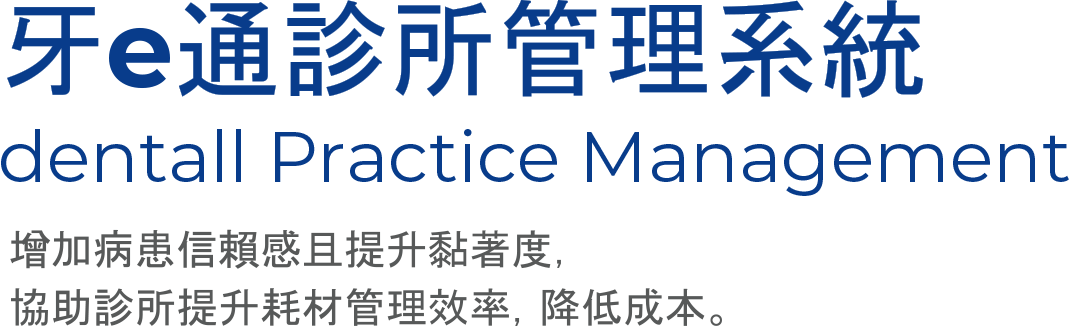
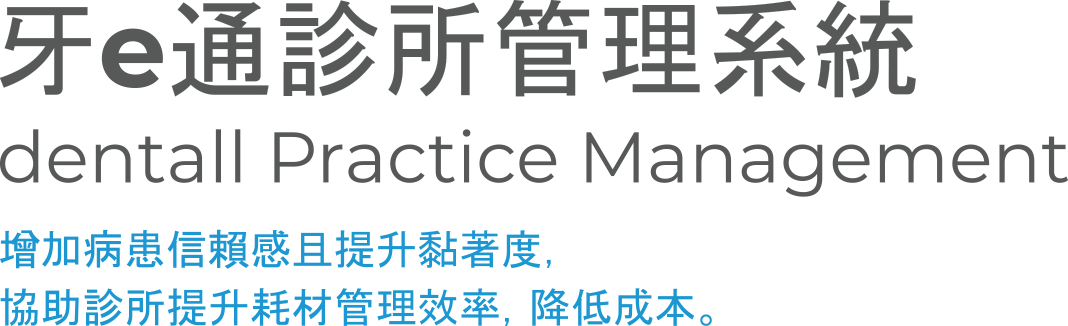
update

diff --git a/resources/stylesheets/style.css b/resources/stylesheets/style.css
@@ -66,7 +66,7 @@ a:active {
 
 .container {
     margin: 0 auto;
-    max-width: 996px;
+    /*max-width: 996px;*/
 }
 
 /*=Navigation=*/
@@ -103,7 +103,7 @@ nav .brand {
 
     background-image: url("../images/dentall-logo.png");
     background-repeat: no-repeat;
-    background-position: center center;
+    background-position: left center;
     background-size: auto;
     height: 100%;
 }
@@ -152,7 +152,7 @@ nav.sticky {
 }
 
 .container-fluid.nav .container {
-    width: 100%;
+    width: 70%;
     height: 84px;
     text-align: center;
 }
@@ -364,7 +364,7 @@ nav.sticky {
     line-height: 1.26;
     letter-spacing: 2.2px;
     text-align: left;
-    color: #083c8b;
+    color: #555555;
 }
 .content-container .content-wrap > div:nth-child(2) .content-1-desc-title > div:nth-child(2) {
     font-size: 18px;
@@ -372,7 +372,7 @@ nav.sticky {
     line-height: 1.33;
     letter-spacing: 0.9px;
     text-align: left;
-    color: #f5a644;
+    color: #00a2e2;
     margin-top: 10px;
 }
 .content-container .content-wrap > div:nth-child(2) .content-1-desc {
@@ -614,10 +614,12 @@ Media Queries
 }
 @media (max-width: 768px) {
     .container-fluid.nav .container {
+        width: 100%;
         height: 56px;
     }
     nav .brand {
         background-image: url("../images/phone/dentall-logo.png");
+        background-position: center center;
     }
 
     /* banner */
@@ -627,7 +629,8 @@ Media Queries
     }
     .banner-title-container {
         width: 90%;
-        margin-top: 30px;
+        margin-top: 0;
+        padding-top: 30px;
     }
     .banner-title-1 {
         background-image: url("../images/phone/banner-title@2x.png");
